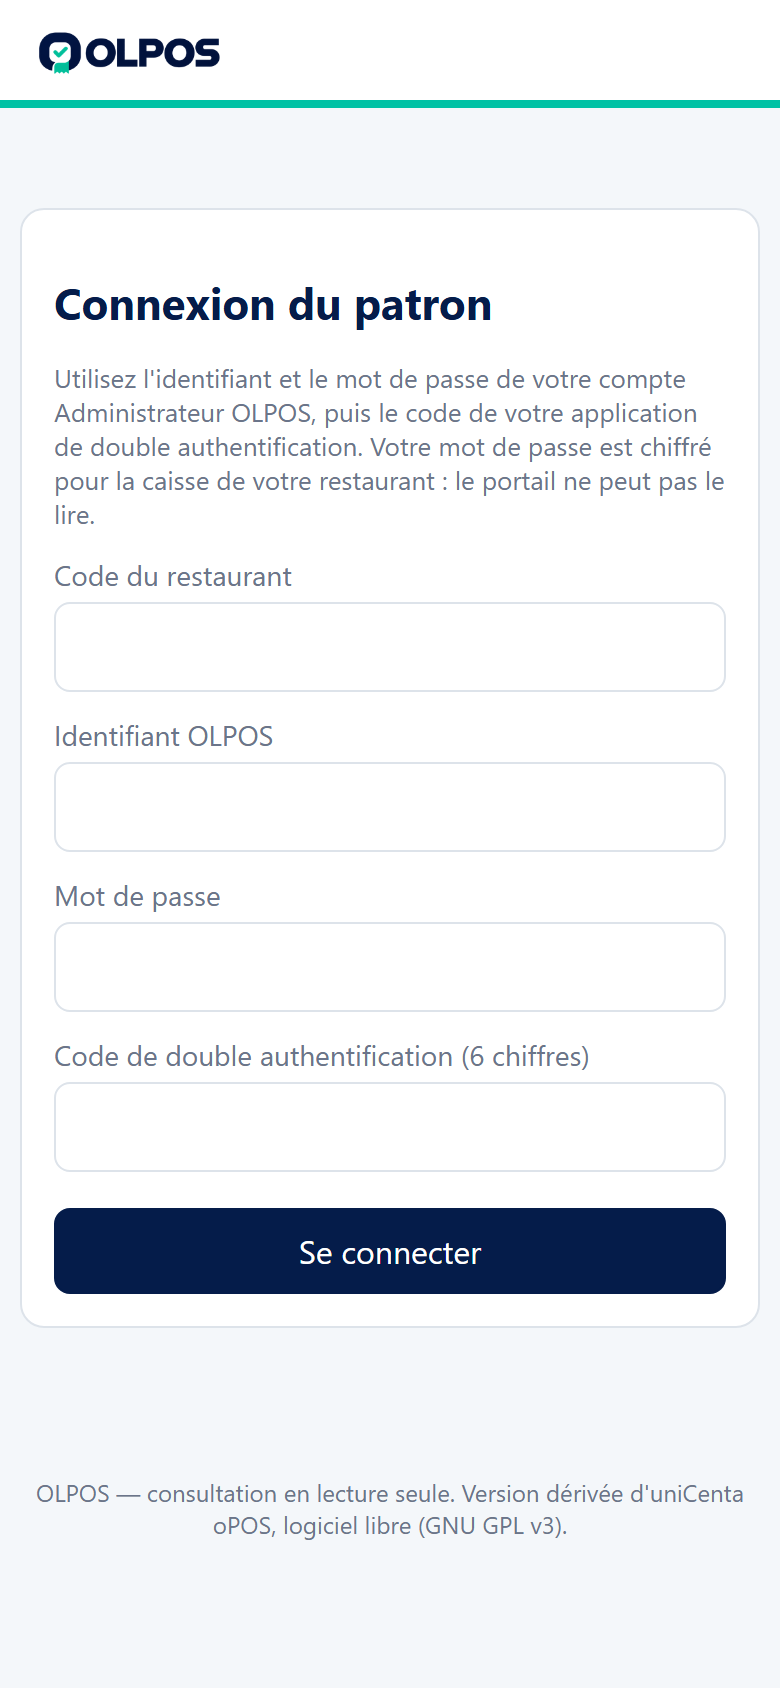
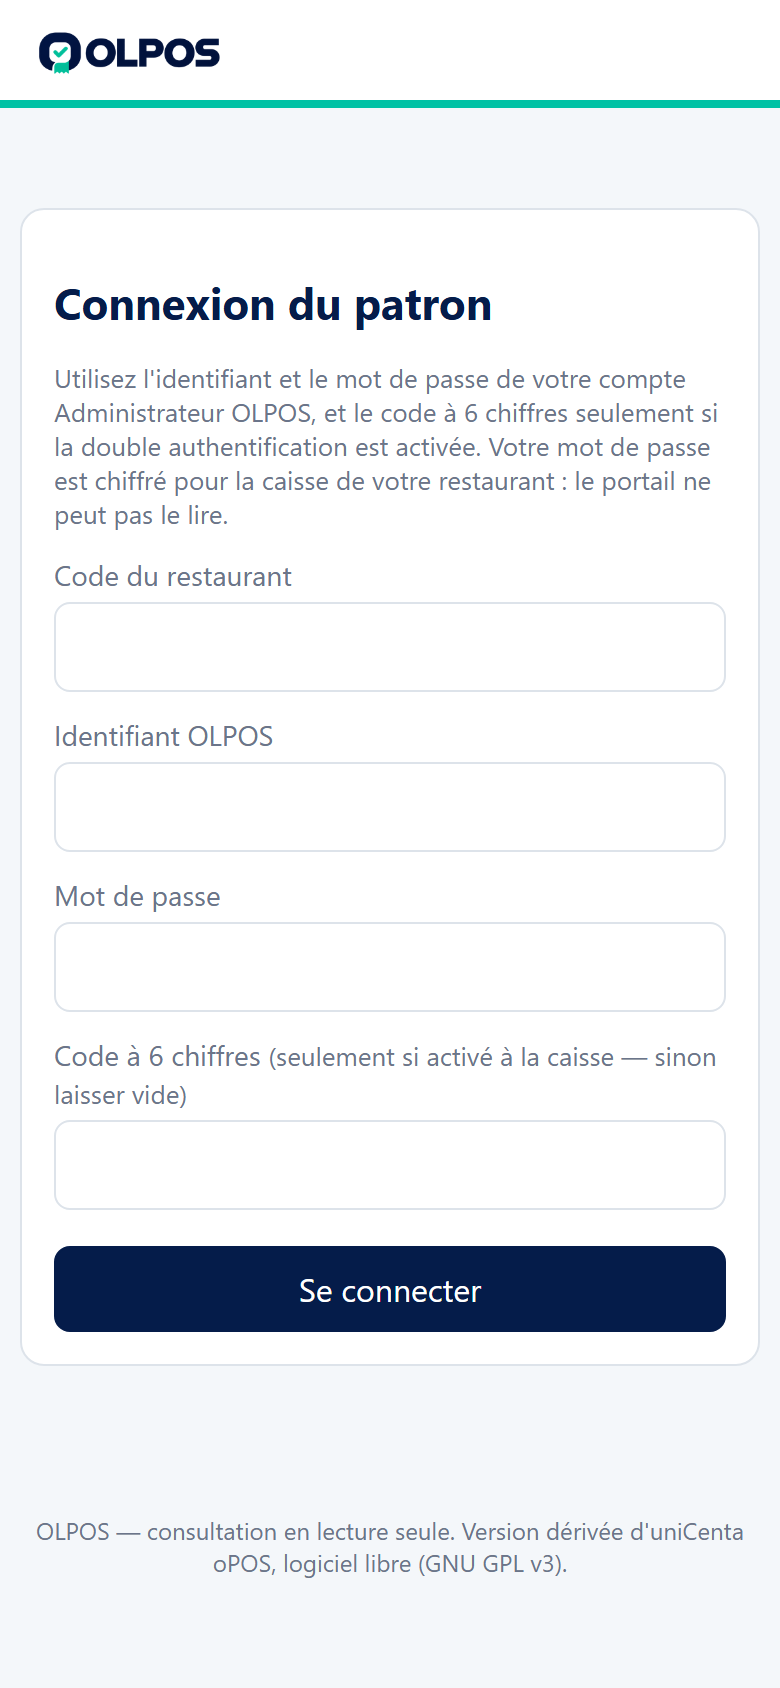
Portail Patron : code a 6 chiffres facultatif (choix par compte a la caisse)
A la caisse, "Autoriser" propose "avec code a 6 chiffres (recommande)" ou
"mot de passe seul". Le mot de passe reste obligatoire (compte sans mot de
passe toujours refuse), la limitation des essais reste active, et changer de
mode ferme les sessions ouvertes. Champ du code facultatif sur la page.

diff --git a/portal/src/main/resources/com/olpos/portal/web/app.js b/portal/src/main/resources/com/olpos/portal/web/app.js
@@ -68,12 +68,12 @@ function showLogin(msg) {
   $('#view').innerHTML = '<form class="card login" id="f">'
     + '<h1>Connexion du patron</h1>'
     + '<p class="muted">Utilisez l\'identifiant et le mot de passe de votre compte Administrateur OLPOS, '
-    + 'puis le code de votre application de double authentification. Votre mot de passe est chiffré pour '
+    + 'et le code à 6 chiffres seulement si la double authentification est activée. Votre mot de passe est chiffré pour '
     + 'la caisse de votre restaurant : le portail ne peut pas le lire.</p>'
     + '<label>Code du restaurant<input id="rest" autocomplete="organization" required value="' + esc(last) + '"></label>'
     + '<label>Identifiant OLPOS<input id="user" autocomplete="username" required></label>'
     + '<label>Mot de passe<input id="pwd" type="password" autocomplete="current-password" required></label>'
-    + '<label>Code de double authentification (6 chiffres)<input id="otp" inputmode="numeric" pattern="[0-9]{6}" maxlength="6" autocomplete="one-time-code" required></label>'
+    + '<label>Code à 6 chiffres <span class="muted">(seulement si activé à la caisse — sinon laisser vide)</span><input id="otp" inputmode="numeric" pattern="[0-9]{6}" maxlength="6" autocomplete="one-time-code"></label>'
     + '<button class="primary" type="submit" id="go">Se connecter</button></form>';
   banner(msg || null, !!msg);
   if (!window.crypto || !window.crypto.subtle) {

diff --git a/src/main/java/com/unicenta/pos/portal/PortalDialog.java b/src/main/java/com/unicenta/pos/portal/PortalDialog.java
@@ -215,9 +215,11 @@ public final class PortalDialog {
                 if (!right) {
                     continue;
                 }
-                boolean enrolled = link.totpSecret(u.getId()) != null;
+                String mode = link.totpSecret(u.getId());
+                boolean enrolled = mode != null;
                 JLabel l = new JLabel("<html><b>" + esc(u.getName()) + "</b> — " + (!pass ? "sans mot de passe : refusé"
-                        : enrolled ? "autorisé" : "non autorisé") + "</html>");
+                        : !enrolled ? "non autorisé" : PortalLink.NO_CODE.equals(mode)
+                        ? "autorisé (mot de passe seul)" : "autorisé (mot de passe + code)") + "</html>");
                 JButton b;
                 if (enrolled) {
                     b = new JButton("Retirer l'accès");
@@ -259,8 +261,32 @@ public final class PortalDialog {
         return wrap;
     }
 
-    /** Activation : secret genere sur la caisse, confirme par un premier code. */
+    /** Autorisation : avec code a 6 chiffres (recommande) ou mot de passe seul. */
     private static void enroll(JDialog d, PortalLink link, AppUser u) {
+        Object[] options = {"Avec code à 6 chiffres (recommandé)", "Mot de passe seul", "Annuler"};
+        int choice = JOptionPane.showOptionDialog(d, "<html>Comment " + esc(u.getName()) + " se connectera au portail ?"
+                + "<br><br><b>Avec code</b> : mot de passe + code d'une application sur le téléphone (plus sûr)."
+                + "<br><b>Mot de passe seul</b> : plus simple ; quelqu'un qui connaît le mot de passe "
+                + "pourra voir les ventes.</html>", "Autoriser " + u.getName(), JOptionPane.DEFAULT_OPTION,
+                JOptionPane.QUESTION_MESSAGE, null, options, options[0]);
+        if (choice == 1) {
+            try {
+                link.enroll(u.getId(), PortalLink.NO_CODE);
+                JOptionPane.showMessageDialog(d, u.getName() + " peut se connecter au portail Patron avec son "
+                        + "mot de passe.", "Portail Patron", JOptionPane.INFORMATION_MESSAGE);
+            } catch (Exception ex) {
+                error(d, ex);
+            }
+            return;
+        }
+        if (choice != 0) {
+            return;
+        }
+        enrollWithCode(d, link, u);
+    }
+
+    /** Activation avec code : secret genere sur la caisse, confirme par un premier code. */
+    private static void enrollWithCode(JDialog d, PortalLink link, AppUser u) {
         String secret = Totp.newSecret();
         String uri = Totp.uri(secret, u.getName(), "OLPOS " + (link.slug() == null ? "" : link.slug()));
         JTextArea info = new JTextArea("1. Dans l'application d'authentification du patron, ajoutez un compte "

diff --git a/src/test/java/com/unicenta/pos/portal/PortalTillIntegrationTest.java b/src/test/java/com/unicenta/pos/portal/PortalTillIntegrationTest.java
@@ -185,6 +185,25 @@ public class PortalTillIntegrationTest {
     }
 
     @Test
+    public void compteAutoriseSansCodeMotDePasseSeul() throws Exception {
+        PortalLink l = link("auth-sans-code");
+        l.enroll("0", PortalLink.NO_CODE);
+        long now = System.currentTimeMillis();
+        PortalAuthenticator a = new PortalAuthenticator(l, dl, () -> now);
+        assertEquals(true, ask(a, l, "r1", "n1", "Administrator", ADMIN_PASSWORD, "").get("ok"));
+        assertEquals("le meme acces peut se reconnecter", true,
+                ask(a, l, "r2", "n2", "Administrator", ADMIN_PASSWORD, "").get("ok"));
+        assertEquals("invalid", ask(a, l, "r3", "n3", "Administrator", "faux", "").get("reason"));
+        // compte sans mot de passe : toujours refuse, meme sans code
+        l.enroll("1", PortalLink.NO_CODE);
+        assertEquals("no_password", ask(a, l, "r4", "n4", "Manager", "", "").get("reason"));
+        // passer de "sans code" a "avec code" change l'empreinte (sessions fermees)
+        String before = l.stamp("0", "sha1:A", "0", true);
+        l.enroll("0", Totp.newSecret());
+        assertNotEquals(before, l.stamp("0", "sha1:A", "0", true));
+    }
+
+    @Test
     public void refusMauvaisMotDePasseMauvaisCodeEtBlocage() throws Exception {
         PortalLink l = link("auth-ko");
         String secret = Totp.newSecret();

diff --git a/src/main/java/com/unicenta/pos/portal/PortalAuthenticator.java b/src/main/java/com/unicenta/pos/portal/PortalAuthenticator.java
@@ -112,13 +112,16 @@ public final class PortalAuthenticator {
             return deny("not_enrolled");
         }
         long now = clock.getAsLong();
-        long step = Totp.matchStep(secret, code, now);
-        Long last = usedSteps.get(uid);
-        if (step < 0 || (last != null && step <= last)) {
-            fail(uid);
-            return deny("invalid");
+        if (!PortalLink.NO_CODE.equals(secret)) {
+            // compte avec double authentification : code a 6 chiffres obligatoire
+            long step = Totp.matchStep(secret, code, now);
+            Long last = usedSteps.get(uid);
+            if (step < 0 || (last != null && step <= last)) {
+                fail(uid);
+                return deny("invalid");
+            }
+            usedSteps.put(uid, step);   // un meme code ne sert qu'une fois
         }
-        usedSteps.put(uid, step);   // un meme code ne sert qu'une fois
         failures.remove(uid);
         Map<String, Object> a = Json.obj("v", 1L, "rid", link.restaurantId(), "req", requestId, "nonce", nonce,
                 "uid", uid, "name", user.getName(), "stamp", link.stamp(uid, user.getPassword(), user.getRole(), true),

diff --git a/src/test/java/com/unicenta/pos/portal/PortalDemo.java b/src/test/java/com/unicenta/pos/portal/PortalDemo.java
@@ -79,7 +79,8 @@ public final class PortalDemo {
         DataLogicSystem dl = new DataLogicSystem();
         dl.init(session);
         PortalLink link = new PortalLink(new File(dir, "donnees-olpos"));
-        String secret = Totp.newSecret();
+        boolean noCode = args.length > 4 && "sans-code".equals(args[4]);
+        String secret = noCode ? PortalLink.NO_CODE : Totp.newSecret();
         link.enroll("0", secret);
         java.util.Map<String, Object> meta = Json.obj("currency", "EUR", "locale", "fr-FR",
                 "timezone", zone.getId(), "version", com.unicenta.pos.forms.Branding.VERSION);
@@ -93,9 +94,10 @@ public final class PortalDemo {
         agent.syncOnce();
         agent.start();
         File codeFile = new File(dir, "code-2fa.txt");
-        while (true) {
+        while (!noCode) {
             Files.write(codeFile.toPath(), Totp.code(secret, System.currentTimeMillis()).getBytes(StandardCharsets.US_ASCII));
             Thread.sleep(1000);
         }
+        Thread.currentThread().join();   // mot de passe seul : rien a afficher, la caisse continue
     }
 }

diff --git a/src/main/java/com/unicenta/pos/portal/PortalLink.java b/src/main/java/com/unicenta/pos/portal/PortalLink.java
@@ -183,6 +183,10 @@ public final class PortalLink {
 
     // ================================================================== double authentification
 
+    /** Compte autorise SANS code a 6 chiffres (mot de passe seul), choix fait a la caisse. */
+    public static final String NO_CODE = "sans-code";
+
+    /** Secret TOTP du compte, {@link #NO_CODE} (mot de passe seul) ou null (non autorise). */
     public synchronized String totpSecret(String uid) {
         return totp.getProperty(uid);
     }

diff --git a/docs/PORTAIL-PATRON.md b/docs/PORTAIL-PATRON.md
@@ -30,9 +30,10 @@ cours, exports CSV et PDF.
   (`%LOCALAPPDATA%\OLPOS5\portail\file\`) et partent au retour de la connexion,
   dans l'ordre, sans doublon.
 * **Connexion du patron = le même identifiant et le même mot de passe que sur la
-  caisse** (compte administrateur), plus un **code à 6 chiffres** d'une
-  application d'authentification (Google Authenticator, Microsoft
-  Authenticator, etc.).
+  caisse** (compte administrateur). Le **code à 6 chiffres** d'une application
+  d'authentification (Google Authenticator, Microsoft Authenticator, etc.) est
+  **facultatif** : il se choisit compte par compte à la caisse (« avec code »,
+  recommandé, ou « mot de passe seul »).
 
 ### Le mot de passe ne passe jamais en clair par le portail
 
@@ -60,7 +61,7 @@ Le secret de double authentification reste **uniquement sur la caisse**.
 | Lecture seule | Toutes les adresses du patron refusent POST/PUT/DELETE (`405`), sauf connexion et déconnexion. Aucune adresse ne modifie la caisse. |
 | Compte sans mot de passe | Refusé (vérifié par la caisse). |
 | Droit nécessaire | Droit d'administration (`RolesPanel`) ou permission `portal.Access`, **et** double authentification activée à la caisse pour ce compte. |
-| Double authentification | Code TOTP à 6 chiffres (RFC 6238), un même code ne sert qu'une fois. |
+| Double authentification | Au choix pour chaque compte : code TOTP à 6 chiffres (RFC 6238, un même code ne sert qu'une fois) ou mot de passe seul. Sans code, quelqu'un qui connaît le mot de passe peut voir les ventes : utiliser un mot de passe solide. |
 | Essais limités | 5 échecs / 15 min par compte et restaurant (portail **et** caisse), 20 par adresse IP. |
 | Sessions | Cookie `HttpOnly`, `SameSite=Strict`, `Secure` derrière HTTPS ; expire après 30 min d'inactivité et au plus 12 h ; jeton stocké haché (SHA-256). |
 | Révocation | Changement de mot de passe, de rôle, de droit ou de double authentification à la caisse ⇒ les sessions ouvertes sont fermées dès le contact suivant (≤ 60 s si la caisse est en ligne). |
@@ -100,17 +101,20 @@ java -jar olpos-portal.jar serve --data D:\olpos-portail --bind 127.0.0.1 --port
 2. Saisir l'identifiant et le mot de passe d'un **administrateur** (un compte
    sans mot de passe est refusé).
 3. Saisir l'adresse du portail (`https://…`) et le **code d'association** → **Associer**.
-4. Dans « Comptes autorisés », cliquer **Autoriser** pour le compte du patron :
-   ajouter la clé affichée dans l'application d'authentification du téléphone
-   (saisie manuelle, « basé sur le temps »), puis taper le code à 6 chiffres
-   pour confirmer.
+4. Dans « Comptes autorisés », cliquer **Autoriser** pour le compte du patron,
+   puis choisir :
+   * **Avec code à 6 chiffres (recommandé)** : ajouter la clé affichée dans
+     l'application d'authentification du téléphone (saisie manuelle, « basé sur
+     le temps »), puis taper le code à 6 chiffres pour confirmer ;
+   * **Mot de passe seul** : rien d'autre à faire.
 
 ![Fenêtre Portail Patron de la caisse](captures/portail/caisse-portail.png)
 
 ### C. Le patron
 
 Ouvrir l'adresse du portail, saisir : **code du restaurant** (ex. `le-bistrot`),
-identifiant OLPOS, mot de passe, code à 6 chiffres.
+identifiant OLPOS, mot de passe, et le code à 6 chiffres seulement si le compte
+a été autorisé « avec code » (sinon laisser vide).
 
 ---
 
